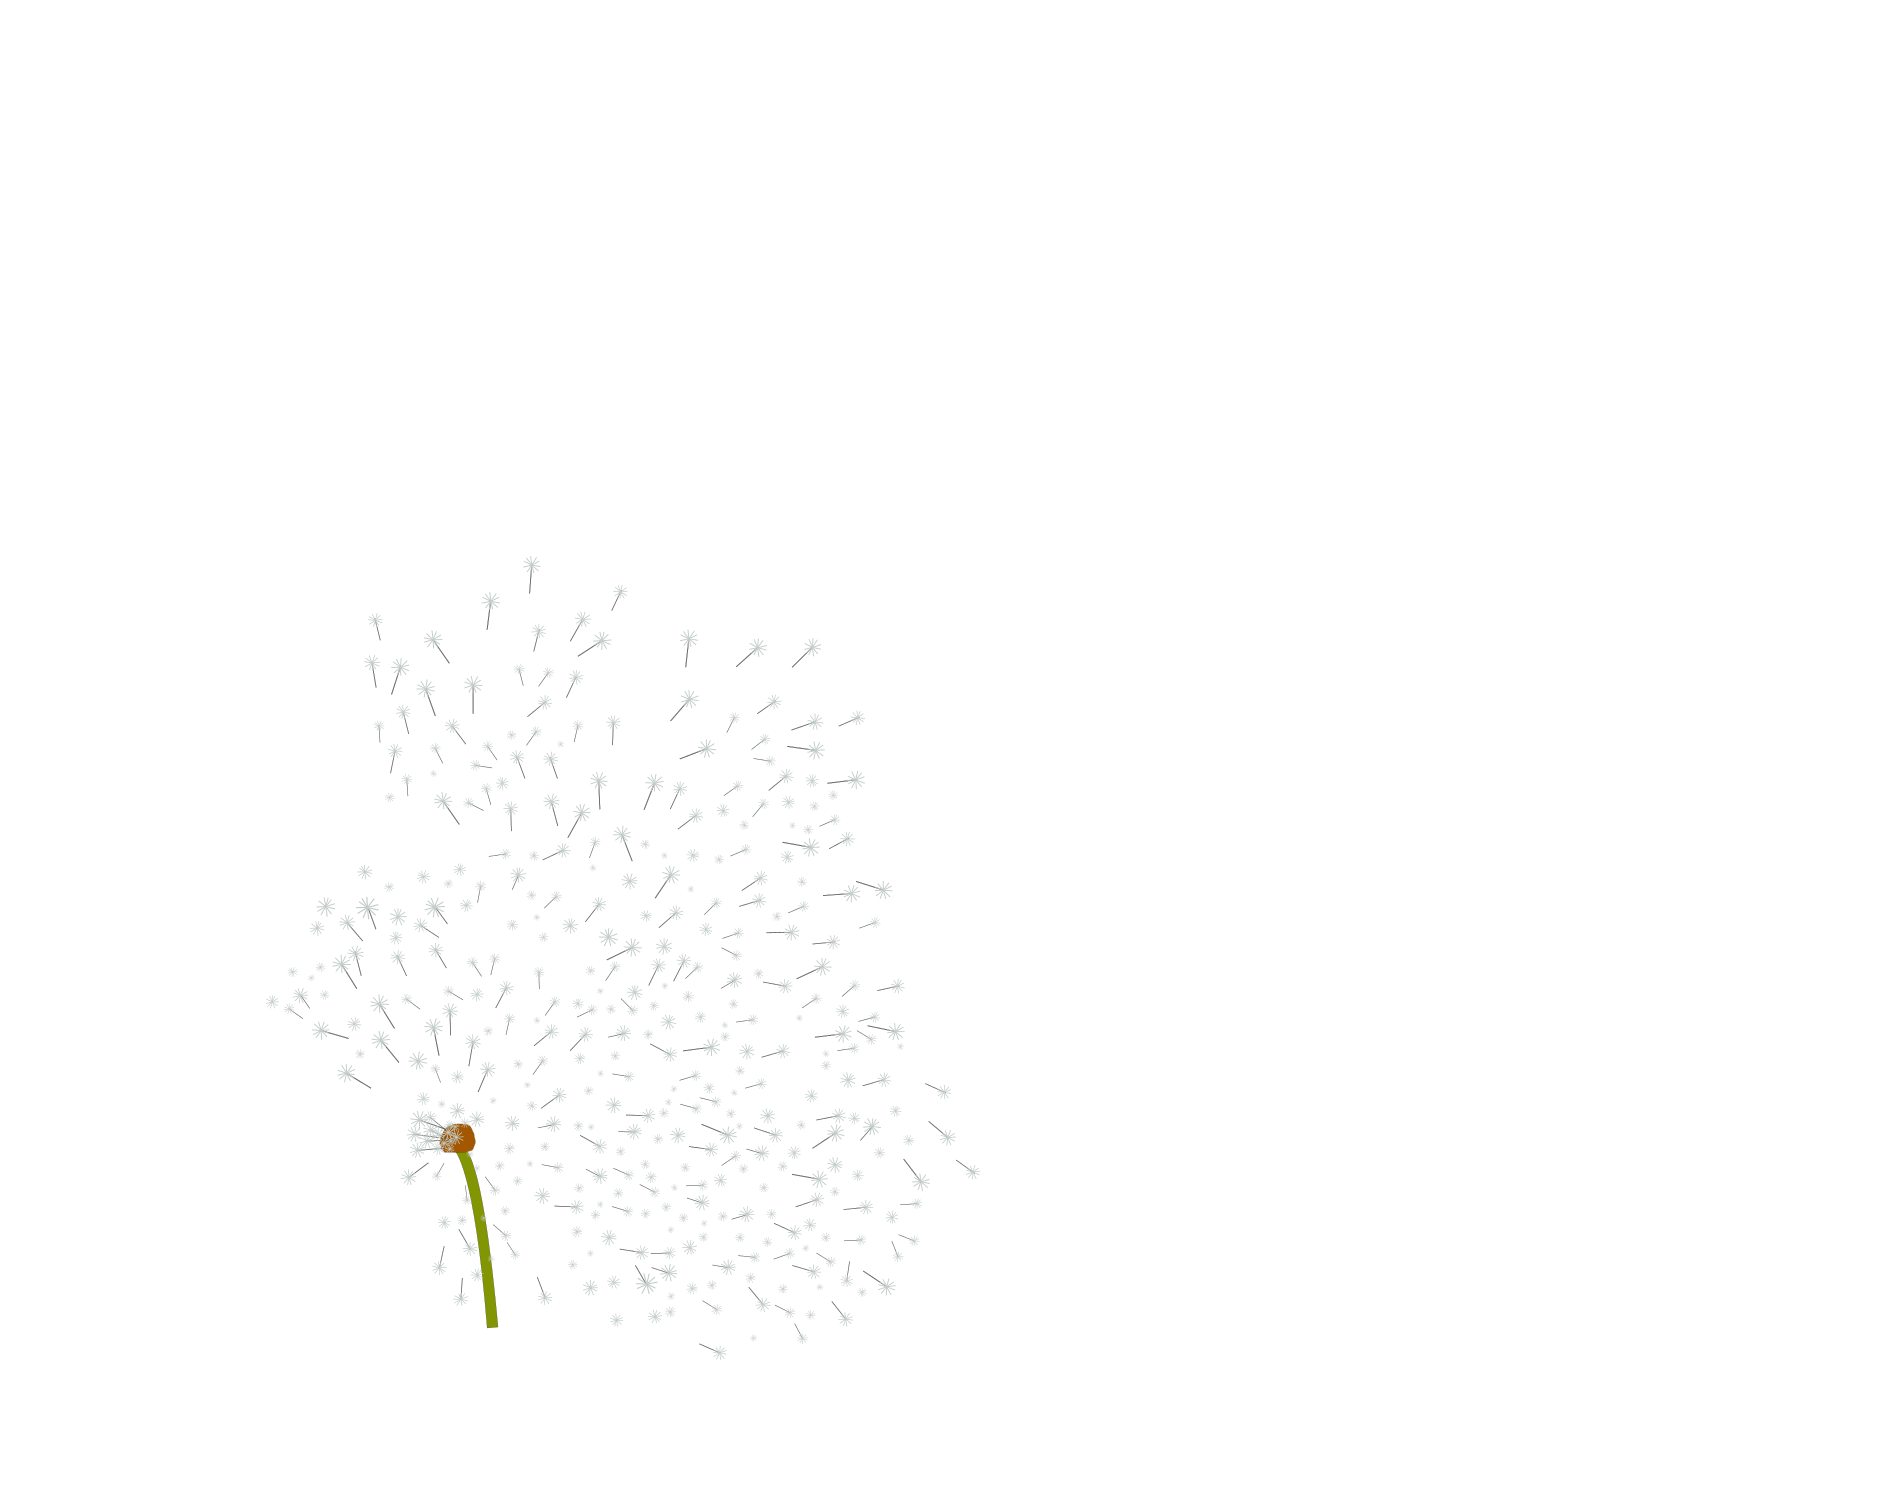
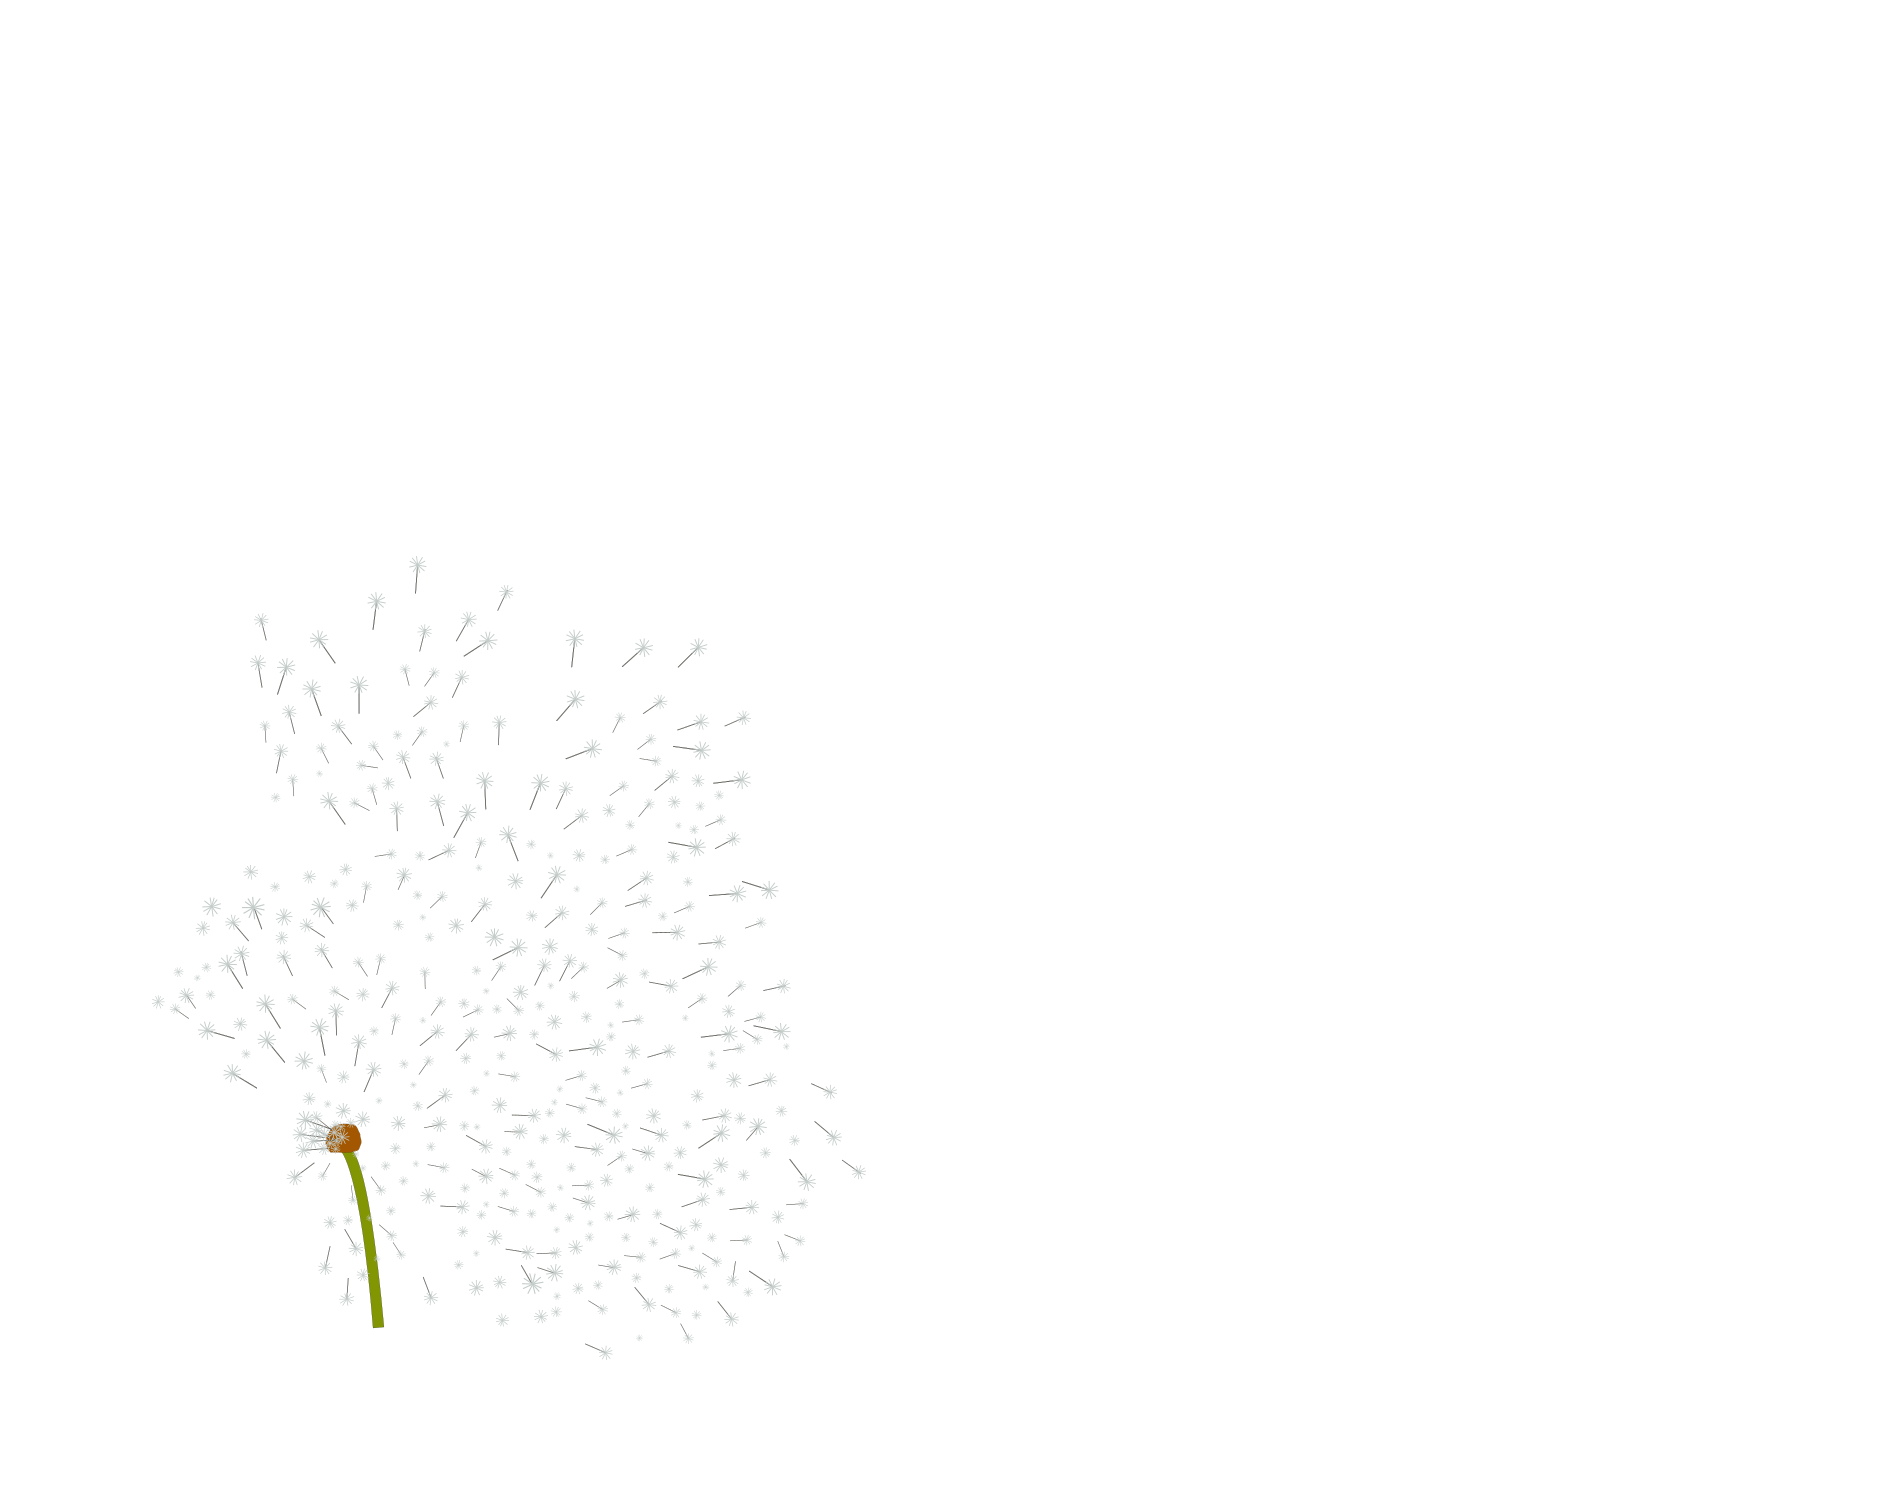
rexported images with proper spacing

diff --git a/frontend/src/assets.ts b/frontend/src/assets.ts
@@ -9,11 +9,11 @@ export const assets = {
     { src: '/Dandelion6.png', stemX: 0.2 },
     { src: '/Dandelion7.png', stemX: 0.2 },
     { src: '/Dandelion8.png', stemX: 0.2 },
-    { src: '/Dandelion9.png', stemX: 0.2603 },
-    { src: '/Dandelion10.png', stemX: 0.2603 },
-    { src: '/Dandelion11.png', stemX: 0.2603 },
-    { src: '/Dandelion12.png', stemX: 0.2603 },
-    { src: '/Dandelion13.png', stemX: 0.2603 },
+    { src: '/Dandelion9.png', stemX: 0.2 },
+    { src: '/Dandelion10.png', stemX: 0.2 },
+    { src: '/Dandelion11.png', stemX: 0.2 },
+    { src: '/Dandelion12.png', stemX: 0.2 },
+    { src: '/Dandelion13.png', stemX: 0.2 },
   ],
   hill: '/dandelion-heart-hill.png',
   heart: '/heart.svg',
